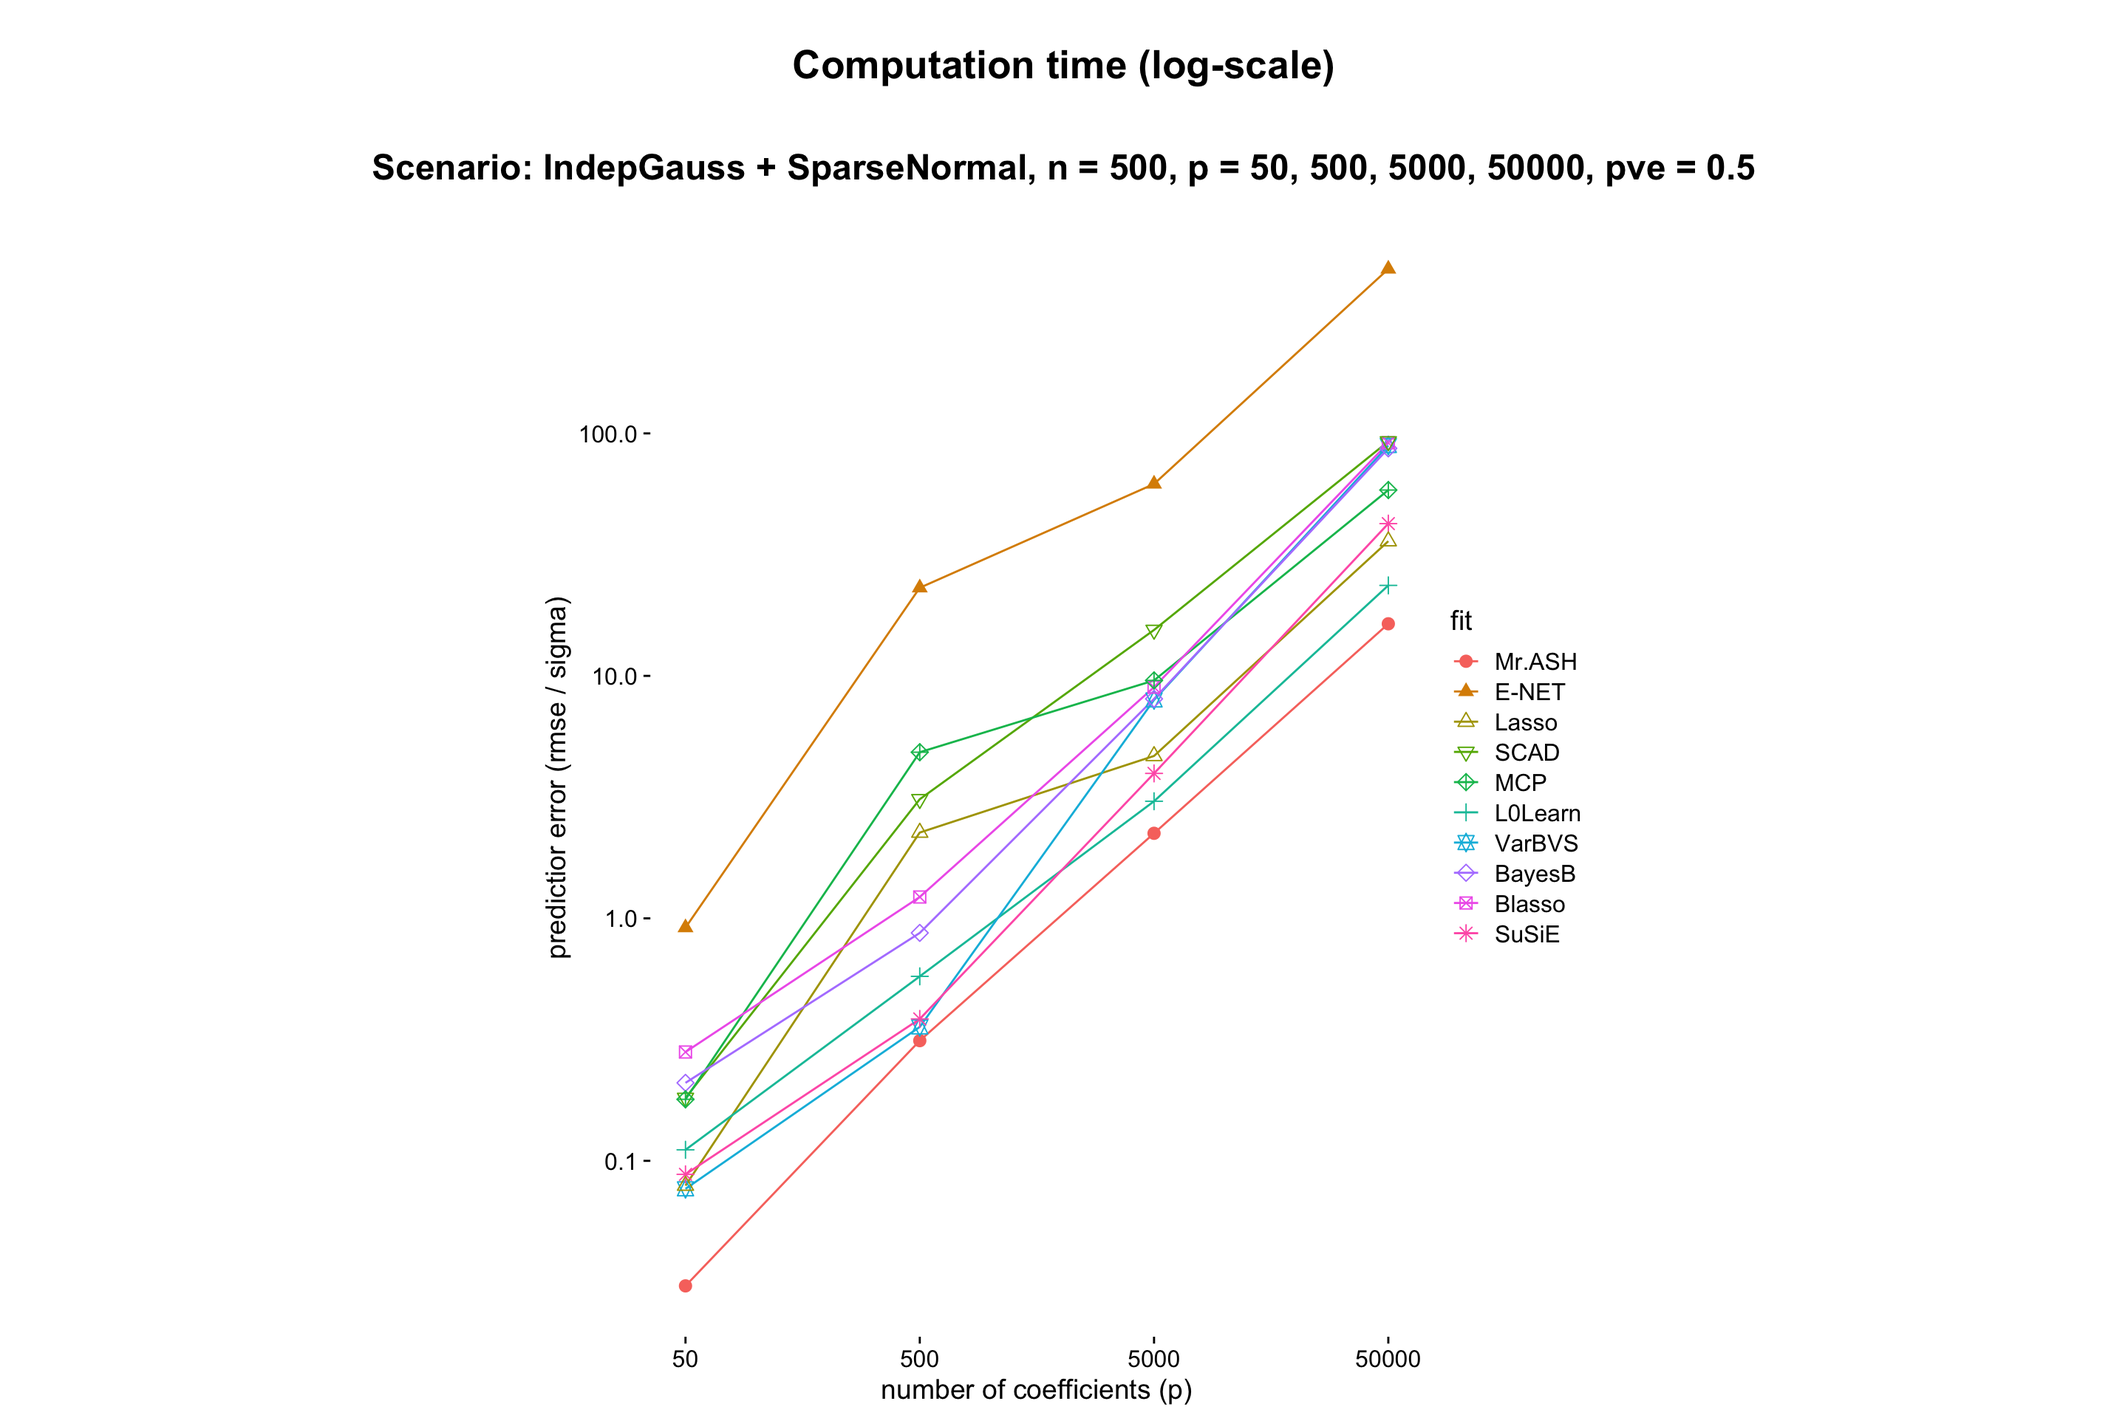
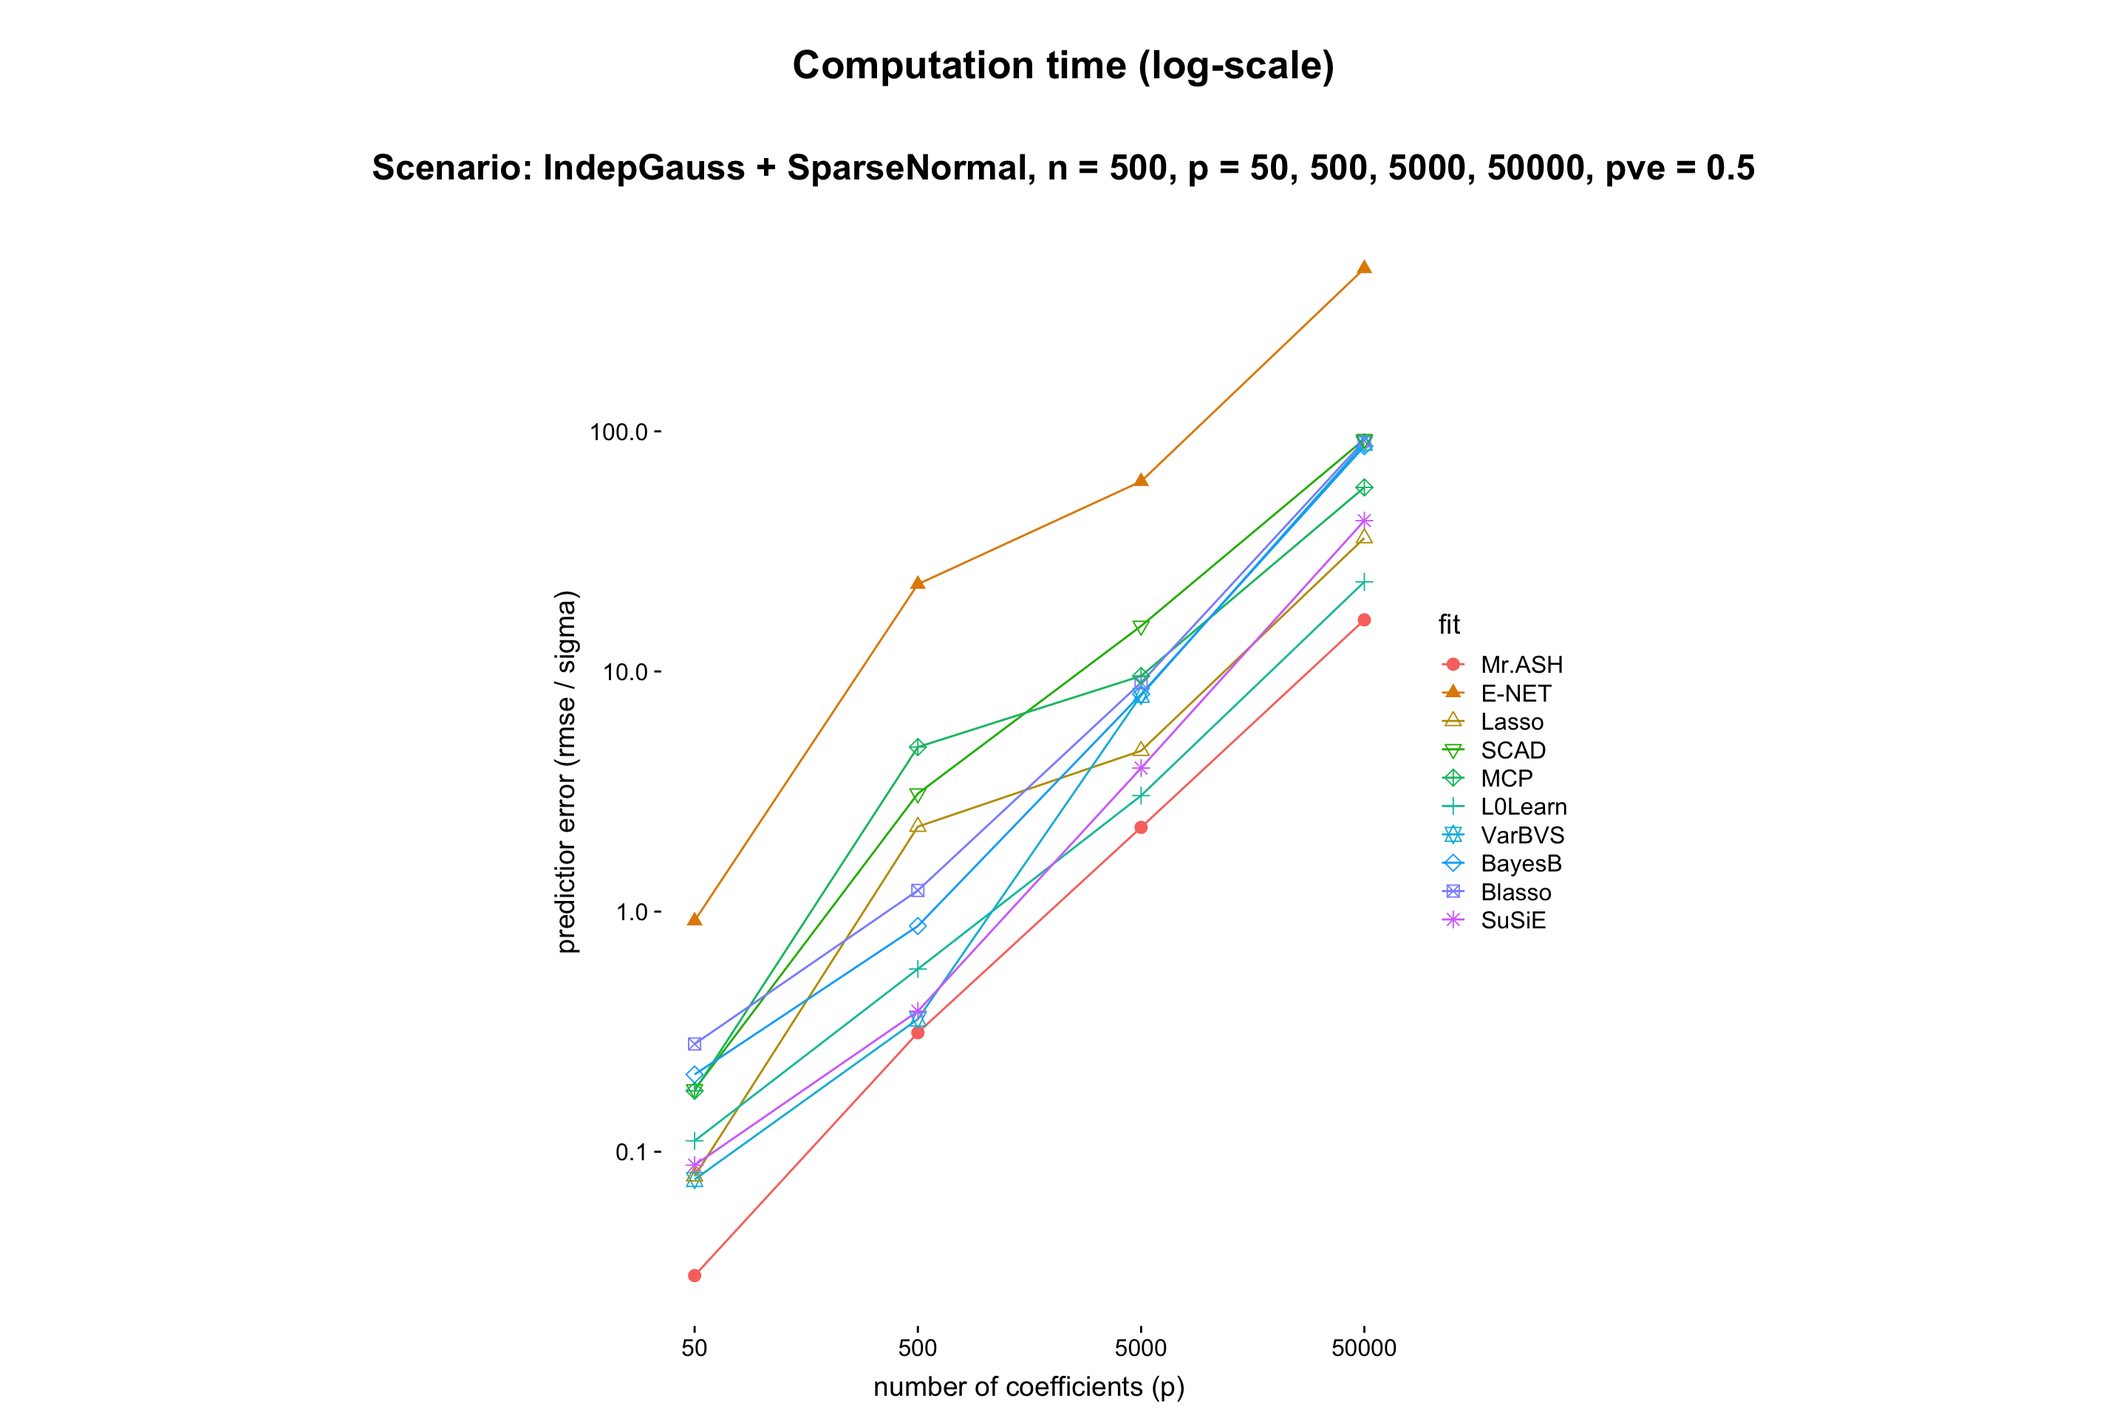
Build site.
Former-commit-id: 5602aa261422a2f671acdcc1c775c3819bd08884

diff --git a/docs/Result4_Highdim.html b/docs/Result4_Highdim.html
@@ -7,7 +7,6 @@
 <meta charset="utf-8" />
 <meta http-equiv="Content-Type" content="text/html; charset=utf-8" />
 <meta name="generator" content="pandoc" />
-<meta http-equiv="X-UA-Compatible" content="IE=EDGE" />
 
 
 
@@ -88,6 +87,7 @@ code {
 }
 img {
   max-width:100%;
+  height: auto;
 }
 .tabbed-pane {
   padding-top: 12px;
@@ -248,12 +248,56 @@ $(document).ready(function () {
 }
 </style>
 
+<script>
+$(document).ready(function () {
+  window.buildTabsets("TOC");
+});
+
+$(document).ready(function () {
+  $('.tabset-dropdown > .nav-tabs > li').click(function () {
+    $(this).parent().toggleClass('nav-tabs-open')
+  });
+});
+</script>
+
 <!-- code folding -->
 <style type="text/css">
 .code-folding-btn { margin-bottom: 4px; }
 </style>
+<script>
+$(document).ready(function () {
+  window.initializeCodeFolding("hide" === "show");
+});
+</script>
 
 
+
+<script>
+$(document).ready(function ()  {
+
+    // move toc-ignore selectors from section div to header
+    $('div.section.toc-ignore')
+        .removeClass('toc-ignore')
+        .children('h1,h2,h3,h4,h5').addClass('toc-ignore');
+
+    // establish options
+    var options = {
+      selectors: "h1,h2,h3",
+      theme: "bootstrap3",
+      context: '.toc-content',
+      hashGenerator: function (text) {
+        return text.replace(/[.\\/?&!#<>]/g, '').replace(/\s/g, '_').toLowerCase();
+      },
+      ignoreSelector: ".toc-ignore",
+      scrollTo: 0
+    };
+    options.showAndHide = true;
+    options.smoothScroll = true;
+
+    // tocify
+    var toc = $("#TOC").tocify(options).data("toc-tocify");
+});
+</script>
 
 <style type="text/css">
 
@@ -302,6 +346,8 @@ div.tocify {
 
 .tocify-subheader .tocify-item {
   font-size: 0.90em;
+  padding-left: 25px;
+  text-indent: 0;
 }
 
 .tocify .list-group-item {
@@ -406,17 +452,17 @@ div.section {
 <div class="tab-content">
 <div id="summary" class="tab-pane fade in active">
 <p>
-<strong>Last updated:</strong> 2019-10-21
+<strong>Last updated:</strong> 2019-10-22
 </p>
 <p>
-<strong>Checks:</strong> <span class="glyphicon glyphicon-ok text-success" aria-hidden="true"></span> 7 <span class="glyphicon glyphicon-exclamation-sign text-danger" aria-hidden="true"></span> 0
+<strong>Checks:</strong> <span class="glyphicon glyphicon-ok text-success" aria-hidden="true"></span> 6 <span class="glyphicon glyphicon-exclamation-sign text-danger" aria-hidden="true"></span> 0
 </p>
 <p>
 <strong>Knit directory:</strong> <code>mr-ash-workflow/</code> <span class="glyphicon glyphicon-question-sign" aria-hidden="true" title="This is the local directory in which the code in this file was executed."> </span>
 </p>
 <p>
 This reproducible <a href="http://rmarkdown.rstudio.com">R Markdown</a> analysis was created with <a
-  href="https://github.com/jdblischak/workflowr">workflowr</a> (version 1.4.0). The <em>Checks</em> tab describes the reproducibility checks that were applied when the results were created. The <em>Past versions</em> tab lists the development history.
+  href="https://github.com/jdblischak/workflowr">workflowr</a> (version 1.3.0). The <em>Checks</em> tab describes the reproducibility checks that were applied when the results were created. The <em>Past versions</em> tab lists the development history.
 </p>
 <hr>
 </div>
@@ -485,22 +531,10 @@ This reproducible <a href="http://rmarkdown.rstudio.com">R Markdown</a> analysis
 <div class="panel panel-default">
 <div class="panel-heading">
 <p class="panel-title">
-<a data-toggle="collapse" data-parent="#workflowr-checks" href="#strongFilepathsstrongrelative"> <span class="glyphicon glyphicon-ok text-success" aria-hidden="true"></span> <strong>File paths:</strong> relative </a>
+<a data-toggle="collapse" data-parent="#workflowr-checks" href="#strongRepositoryversionstrongahrefhttpsgithubcomstephenslabmrashworkflowtree837c4ad927d13892633aae06496db5a34d6c3fe6targetblank837c4ada"> <span class="glyphicon glyphicon-ok text-success" aria-hidden="true"></span> <strong>Repository version:</strong> <a href="https://github.com/stephenslab/mr-ash-workflow/tree/837c4ad927d13892633aae06496db5a34d6c3fe6" target="_blank">837c4ad</a> </a>
 </p>
 </div>
-<div id="strongFilepathsstrongrelative" class="panel-collapse collapse">
-<div class="panel-body">
-<p>Great job! Using relative paths to the files within your workflowr project makes it easier to run your code on other machines.</p>
-</div>
-</div>
-</div>
-<div class="panel panel-default">
-<div class="panel-heading">
-<p class="panel-title">
-<a data-toggle="collapse" data-parent="#workflowr-checks" href="#strongRepositoryversionstrongahrefhttpsgithubcomstephenslabmrashworkflowtree506cf214cf386d7341133d796d8a5ab6825e6455targetblank506cf21a"> <span class="glyphicon glyphicon-ok text-success" aria-hidden="true"></span> <strong>Repository version:</strong> <a href="https://github.com/stephenslab/mr-ash-workflow/tree/506cf214cf386d7341133d796d8a5ab6825e6455" target="_blank">506cf21</a> </a>
-</p>
-</div>
[2 lines of base64/hex data omitted]
 <div class="panel-body">
 <p>
 Great! You are using Git for version control. Tracking code development and connecting the code version to the results is critical for reproducibility. The version displayed above was the version of the Git repository at the time these results were generated. <br><br> Note that you need to be careful to ensure that all relevant files for the analysis have been committed to Git prior to generating the results (you can use <code>wflow_publish</code> or <code>wflow_git_commit</code>). workflowr only checks the R Markdown file, but you know if there are other scripts or data files that it depends on. Below is the status of the Git repository when the results were generated:
@@ -509,16 +543,24 @@ Great! You are using Git for version control. Tracking code development and conn
 Ignored files:
     Ignored:    .Rhistory
     Ignored:    .Rproj.user/
+    Ignored:    ETA_1_lambda.dat
+    Ignored:    ETA_1_parBayesB.dat
     Ignored:    analysis/ETA_1_lambda.dat
     Ignored:    analysis/ETA_1_parBayesB.dat
     Ignored:    analysis/mu.dat
     Ignored:    analysis/varE.dat
+    Ignored:    mu.dat
+    Ignored:    varE.dat
 
 Untracked files:
     Untracked:  .DS_Store
-    Untracked:  .Rapp.history
-    Untracked:  docs/figure/Result9_Changepoint.Rmd/
-    Untracked:  results/estsigma.RDS
+    Untracked:  results/equicorr.RDS
+    Untracked:  results/localcorr.RDS
+    Untracked:  results/localcorr.REDS
+
+Unstaged changes:
+    Modified:   analysis/index.Rmd
+    Modified:   code/sim_wrapper.R
 
 </code></pre>
 <p>
@@ -557,6 +599,40 @@ Message
 </tr>
 </thead>
 <tbody>
+<tr>
+<td>
+Rmd
+</td>
+<td>
+<a href="https://github.com/stephenslab/mr-ash-workflow/blob/837c4ad927d13892633aae06496db5a34d6c3fe6/analysis/Result4_Highdim.Rmd" target="_blank">837c4ad</a>
+</td>
+<td>
+Youngseok Kim
+</td>
+<td>
+2019-10-22
+</td>
+<td>
+wflow_publish(“analysis/Result4_Highdim.Rmd”)
+</td>
+</tr>
+<tr>
+<td>
+html
+</td>
+<td>
+<a href="https://rawcdn.githack.com/stephenslab/mr-ash-workflow/7d6c1c84c7b26eff99781c65464cfcea54102022/docs/Result4_Highdim.html" target="_blank">7d6c1c8</a>
+</td>
+<td>
+Youngseok
+</td>
+<td>
+2019-10-21
+</td>
+<td>
+Build site.
+</td>
+</tr>
 <tr>
 <td>
 html
@@ -702,15 +778,6 @@ wflow_publish(&quot;analysis/*.Rmd&quot;)
 </div>
 <div id="introduction" class="section level2">
 <h2>Introduction</h2>
-<p>This .Rmd file is to plot results for the experiment MR.ASH and the comparison methods listed below.</p>
-<ol style="list-style-type: decimal">
-<li><code>glmnet</code> R package: Ridge, Lasso, E-NET</li>
-<li><code>ncvreg</code> R package: SCAD, MCP</li>
-<li><code>L0Learn</code> R package: L0Learn</li>
-<li><code>BGLR</code> R package: BayesB, Blasso (Bayesian Lasso)</li>
-<li><code>susieR</code> R package: SuSiE (Sum of Single Effect)</li>
-<li><code>varbvs</code> R package: VarBVS (Variational Bayes Variable Selection)</li>
-</ol>
 <p>The experiment is based on the following simulation setting.</p>
 <div id="design-setting" class="section level3">
 <h3>Design setting</h3>
@@ -718,24 +785,13 @@ wflow_publish(&quot;analysis/*.Rmd&quot;)
 </div>
 <div id="signal-setting" class="section level3">
 <h3>Signal setting</h3>
-<p>We sample the i.i.d. normal coefficients <span class="math inline">\(\beta_j \sim N(0,\sigma_\beta^2)\)</span> for <span class="math inline">\(j \in J\)</span> and <span class="math inline">\(\beta_ j = 0\)</span> otherwise, where <span class="math inline">\(J\)</span> is a set of randomly <span class="math inline">\(s\)</span> indices in <span class="math inline">\(\{1,⋯,p\}\)</span>c hosen uniformly at random.</p>
-<p>This signal will be called <code>sparsenormal</code>.</p>
+<p>We sample the i.i.d. normal coefficients <span class="math inline">\(\beta_j \sim N(0,\sigma_\beta^2)\)</span> for <span class="math inline">\(j \in J\)</span> and <span class="math inline">\(\beta_ j = 0\)</span> otherwise, where <span class="math inline">\(J\)</span> is a set of randomly <span class="math inline">\(s\)</span> indices in <span class="math inline">\(\{1,⋯,p\}\)</span> chosen uniformly at random.</p>
+<p>This signal will be called <code>pointnormal</code>.</p>
 <p>We will fix <span class="math inline">\(s = 20\)</span> throughout this experiment.</p>
 </div>
 <div id="pve" class="section level3">
 <h3>PVE</h3>
-<p>Then we sample <span class="math inline">\(y = X\beta + \epsilon\)</span>, where <span class="math inline">\(\epsilon \sim N(0,\sigma^2 I_n)\)</span>.</p>
-<p>We fix PVE = 0.5, where PVE is the proportion of variance explained, defined by</p>
-<p><span class="math display">\[
-{\rm PVE} = \frac{\textrm{Var}(X\beta)}{\textrm{Var}(X\beta) + \sigma^2},
-\]</span> where <span class="math inline">\(\textrm{Var}(a)\)</span> denotes the sample variance of <span class="math inline">\(a\)</span> calculated using R function <code>var</code>. To this end, we set <span class="math inline">\(\sigma^2 = \textrm{Var}(X\beta)\)</span>.</p>
-</div>
-<div id="performance-measure" class="section level3">
-<h3>Performance Measure</h3>
-<p>The above two figures display the prediction error. The prediction error we define here is</p>
-<p><span class="math display">\[
-\textrm{Pred.Err}(\hat\beta;y_{\rm test}, X_{\rm test}) = \frac{\textrm{RMSE}}{\sigma} = \frac{\|y_{\rm test} - X_{\rm test} \hat\beta \|}{\sqrt{n}\sigma}
-\]</span> where <span class="math inline">\(y_{\rm test}\)</span> and <span class="math inline">\(X_{\rm test}\)</span> are test data sample in the same way. If <span class="math inline">\(\hat\beta\)</span> is fairly accurate, then we expect that <span class="math inline">\(\rm RMSE\)</span> is similar to <span class="math inline">\(\sigma\)</span>. Therefore in average <span class="math inline">\(\textrm{Pred.Err} \geq 1\)</span> and the smaller the better.</p>
+<p>We fix PVE = 0.5.</p>
 </div>
 <div id="packages-libraries" class="section level3">
 <h3>Packages / Libraries</h3>
@@ -755,7 +811,7 @@ method_list  = c(&quot;Mr.ASH&quot;,&quot;VarBVS&quot;,&quot;BayesB&quot;,&quot;
 method_level = c(&quot;Mr.ASH&quot;,&quot;E-NET&quot;,&quot;Lasso&quot;,
                  &quot;SCAD&quot;,&quot;MCP&quot;,&quot;L0Learn&quot;,
                  &quot;VarBVS&quot;,&quot;BayesB&quot;,&quot;Blasso&quot;,&quot;SuSiE&quot;)
-col          = gg_color_hue(11)[-8]
+col          = gg_color_hue(13)[1:11][-4]
 shape        = c(19,4,5,7,8,17,24,25,9,3,11)[-8]
 p_list       = c(50,500,5000,50000)
 sdat         = data.frame()
@@ -838,7 +894,7 @@ method_list  = c(&quot;Mr.ASH&quot;,&quot;VarBVS&quot;,&quot;BayesB&quot;,&quot;
 method_level = c(&quot;Mr.ASH&quot;,&quot;E-NET&quot;,&quot;Lasso&quot;,
                  &quot;SCAD&quot;,&quot;MCP&quot;,&quot;L0Learn&quot;,
                  &quot;VarBVS&quot;,&quot;BayesB&quot;,&quot;Blasso&quot;,&quot;SuSiE&quot;)
-col          = gg_color_hue(11)[-8]
+col          = gg_color_hue(13)[1:11][-4]
 shape        = c(19,17,24,25,9,3,11,4,5,7,8)[-8]
 p_list       = c(50,500,5000,50000)
 sdat         = data.frame()
@@ -963,7 +1019,7 @@ tdat1[[iter]] = data.frame(pred = c(pred), time = c(time), fit = rep(c(&quot;mr.
 <pre class="r"><code>sessionInfo()</code></pre>
 <pre><code>R version 3.5.3 (2019-03-11)
 Platform: x86_64-apple-darwin15.6.0 (64-bit)
-Running under: macOS Mojave 10.14
+Running under: macOS High Sierra 10.13.3
 
 Matrix products: default
 BLAS: /Library/Frameworks/R.framework/Versions/3.5/Resources/lib/libRblas.0.dylib
@@ -976,27 +1032,27 @@ attached base packages:
 [1] stats     graphics  grDevices utils     datasets  methods   base     
 
 other attached packages:
- [1] varbvs_2.5-16 L0Learn_1.2.0 ncvreg_3.11-1 varbvs2_0.1-1 glmnet_2.0-18
- [6] foreach_1.4.7 BGLR_1.0.8    susieR_0.8.0  cowplot_1.0.0 ggplot2_3.2.1
+ [1] varbvs_2.6-5  L0Learn_1.1.0 ncvreg_3.11-1 varbvs2_0.1-1 glmnet_2.0-16
+ [6] foreach_1.4.4 BGLR_1.0.8    susieR_0.7.1  cowplot_0.9.4 ggplot2_3.2.1
 [11] Matrix_1.2-17
 
 loaded via a namespace (and not attached):
  [1] Rcpp_1.0.2          RColorBrewer_1.1-2  plyr_1.8.4         
- [4] compiler_3.5.3      pillar_1.4.2        git2r_0.26.1       
- [7] workflowr_1.4.0     iterators_1.0.12    tools_3.5.3        
-[10] digest_0.6.21       evaluate_0.14       tibble_2.1.3       
-[13] gtable_0.3.0        lattice_0.20-38     pkgconfig_2.0.3    
-[16] rlang_0.4.0         yaml_2.2.0          xfun_0.9           
+ [4] compiler_3.5.3      pillar_1.3.1        git2r_0.25.2       
+ [7] workflowr_1.3.0     iterators_1.0.10    tools_3.5.3        
+[10] digest_0.6.18       evaluate_0.13       tibble_2.1.1       
+[13] gtable_0.3.0        lattice_0.20-38     pkgconfig_2.0.2    
+[16] rlang_0.4.0         yaml_2.2.0          xfun_0.6           
 [19] withr_2.1.2         stringr_1.4.0       dplyr_0.8.3        
-[22] knitr_1.25          fs_1.3.1            rprojroot_1.3-2    
+[22] knitr_1.22          fs_1.3.0            rprojroot_1.3-2    
 [25] grid_3.5.3          tidyselect_0.2.5    glue_1.3.1         
-[28] R6_2.4.0            rmarkdown_1.15      latticeExtra_0.6-28
+[28] R6_2.4.0            rmarkdown_1.12      latticeExtra_0.6-28
 [31] reshape2_1.4.3      purrr_0.3.2         magrittr_1.5       
-[34] whisker_0.4         codetools_0.2-16    backports_1.1.4    
-[37] scales_1.0.0        htmltools_0.3.6     assertthat_0.2.1   
-[40] colorspace_1.4-1    nor1mix_1.3-0       stringi_1.4.3      
-[43] lazyeval_0.2.2      munsell_0.5.0       truncnorm_1.0-8    
-[46] crayon_1.3.4       </code></pre>
+[34] whisker_0.3-2       codetools_0.2-16    backports_1.1.4    
+[37] scales_1.0.0        htmltools_0.4.0     assertthat_0.2.1   
+[40] colorspace_1.4-1    labeling_0.3        nor1mix_1.2-3      
+[43] stringi_1.4.3       lazyeval_0.2.2      munsell_0.5.0      
+[46] truncnorm_1.0-8     crayon_1.3.4       </code></pre>
 </div>
 </div>
 
@@ -1030,54 +1086,6 @@ $(document).ready(function () {
 });
 
 
-</script>
-
-<!-- tabsets -->
-
-<script>
-$(document).ready(function () {
-  window.buildTabsets("TOC");
-});
-
-$(document).ready(function () {
-  $('.tabset-dropdown > .nav-tabs > li').click(function () {
-    $(this).parent().toggleClass('nav-tabs-open')
-  });
-});
-</script>
-
-<!-- code folding -->
-<script>
-$(document).ready(function () {
-  window.initializeCodeFolding("hide" === "show");
-});
-</script>
-
-<script>
-$(document).ready(function ()  {
-
-    // move toc-ignore selectors from section div to header
-    $('div.section.toc-ignore')
-        .removeClass('toc-ignore')
-        .children('h1,h2,h3,h4,h5').addClass('toc-ignore');
-
-    // establish options
-    var options = {
-      selectors: "h1,h2,h3",
-      theme: "bootstrap3",
-      context: '.toc-content',
-      hashGenerator: function (text) {
-        return text.replace(/[.\\/?&!#<>]/g, '').replace(/\s/g, '_').toLowerCase();
-      },
-      ignoreSelector: ".toc-ignore",
-      scrollTo: 0
-    };
-    options.showAndHide = true;
-    options.smoothScroll = true;
-
-    // tocify
-    var toc = $("#TOC").tocify(options).data("toc-tocify");
-});
 </script>
 
 <!-- dynamically load mathjax for compatibility with self-contained -->
